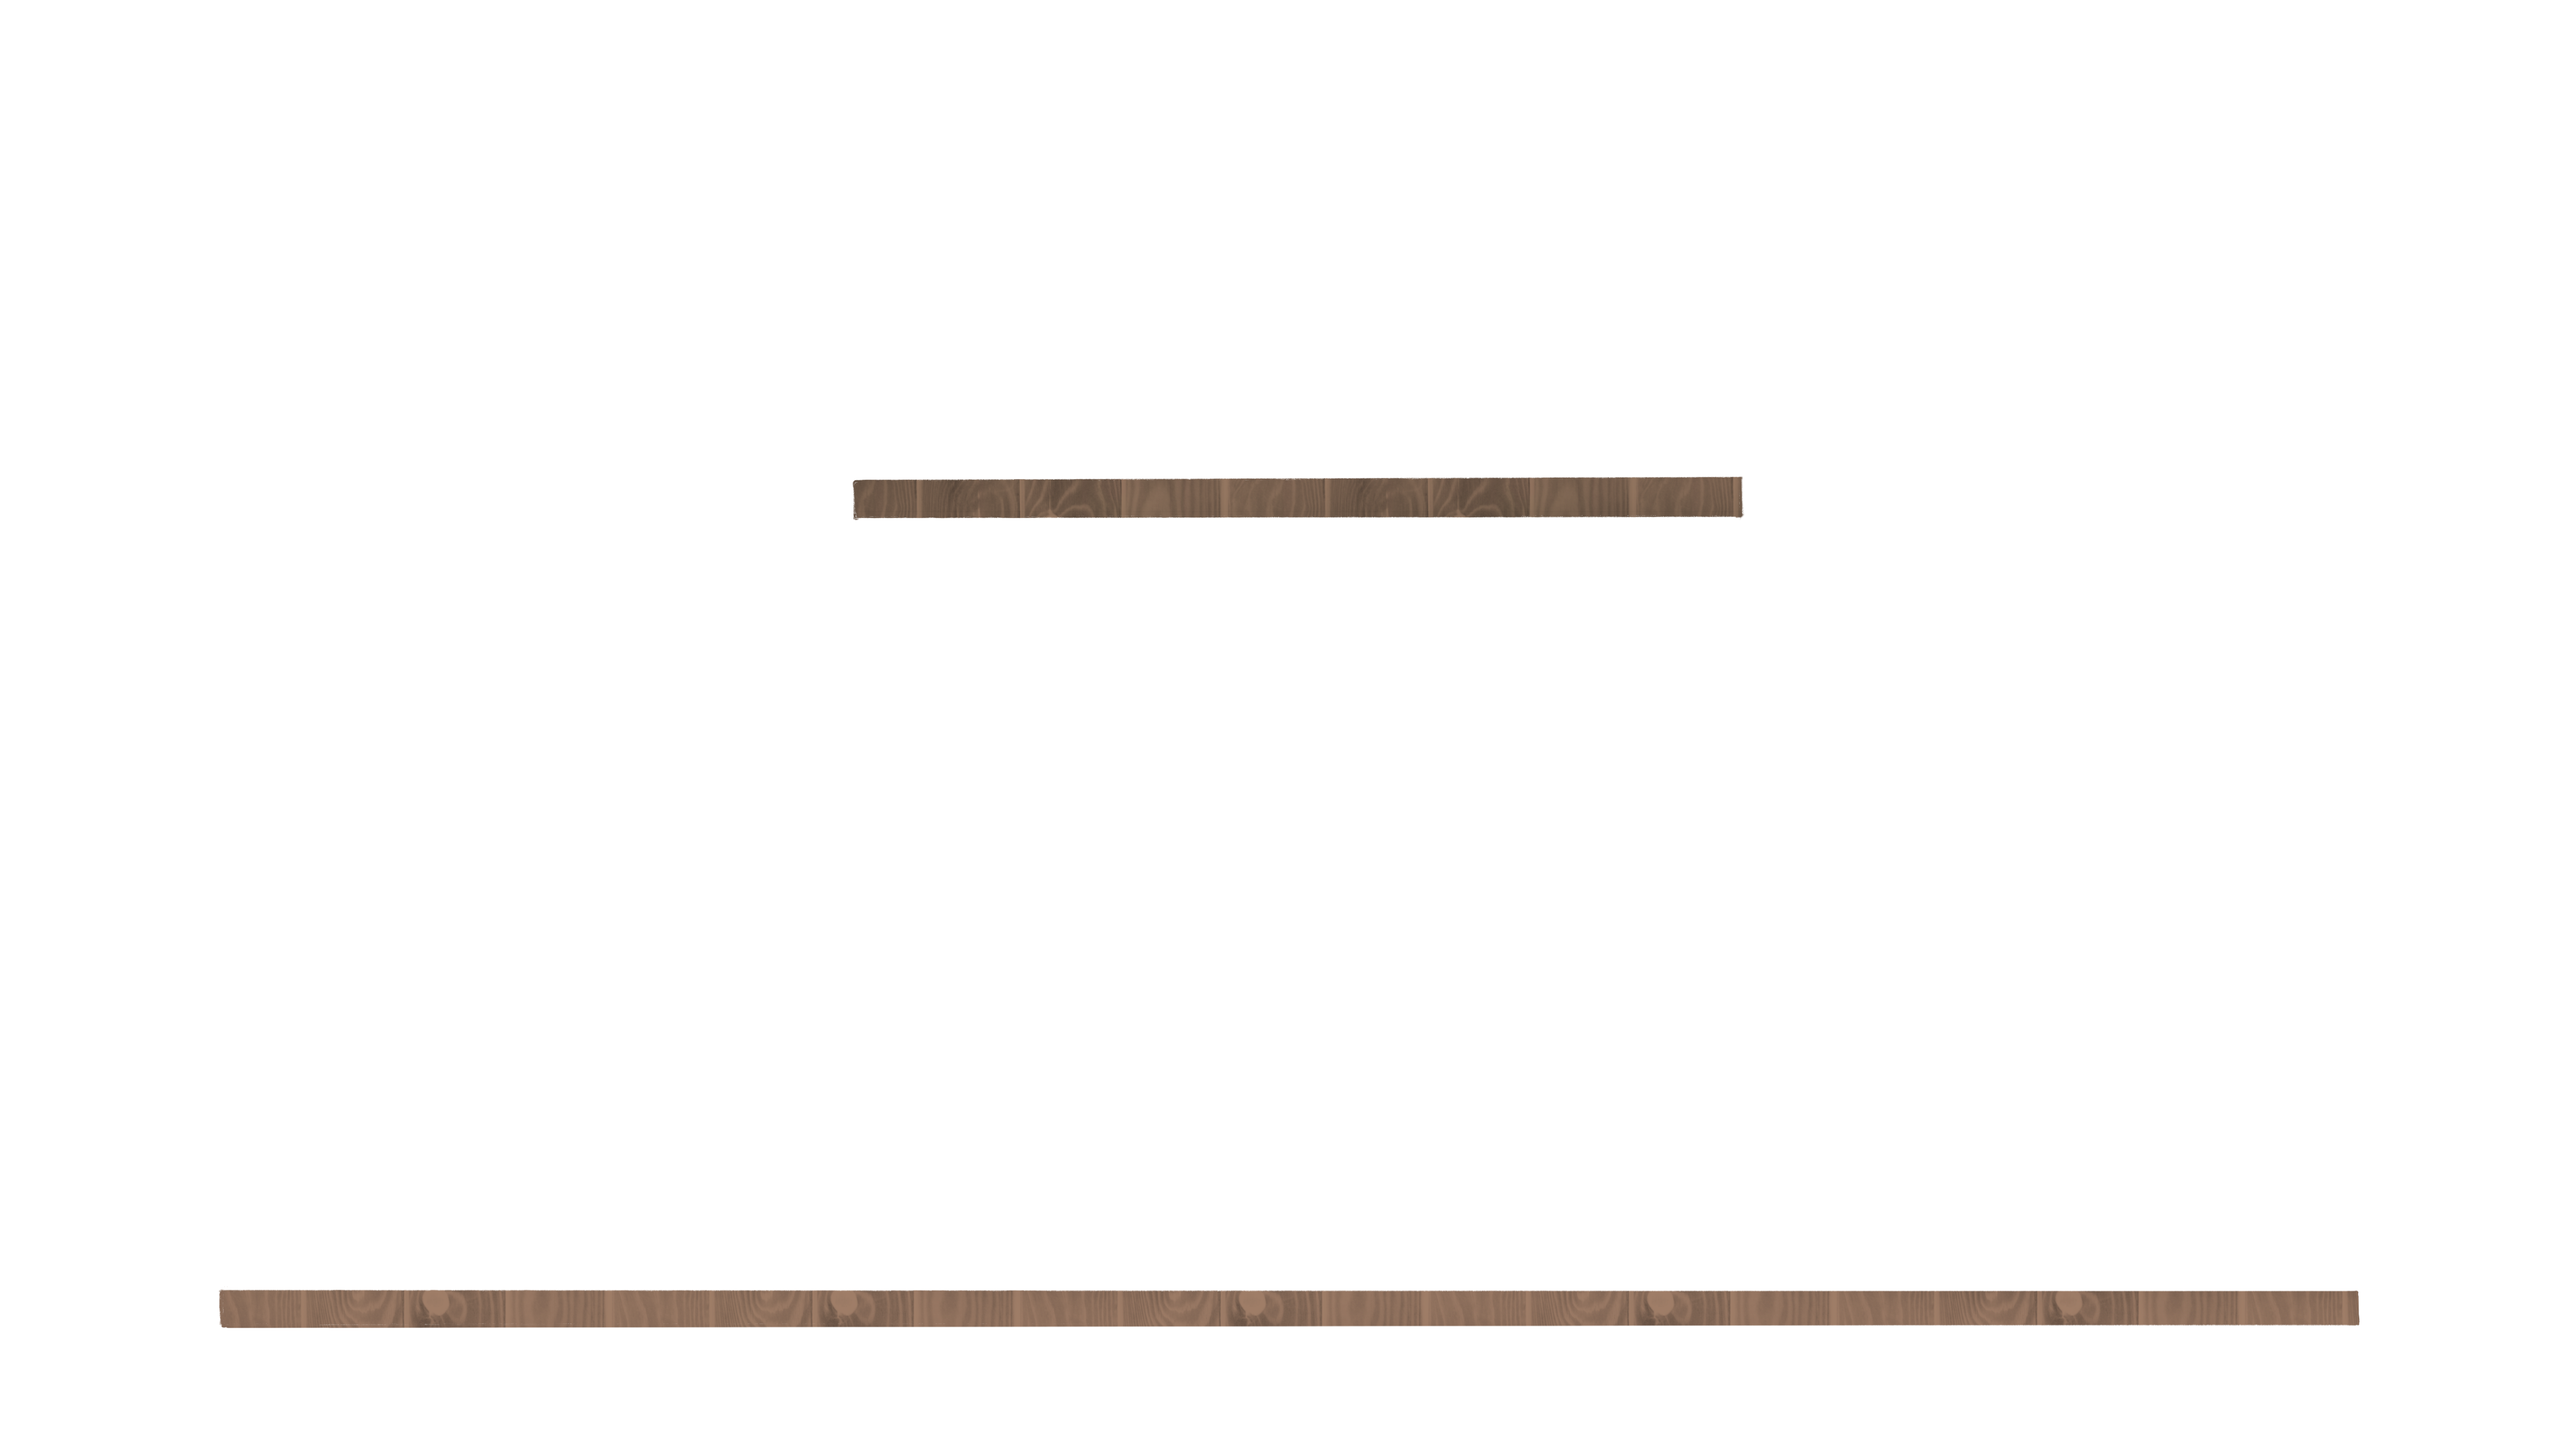
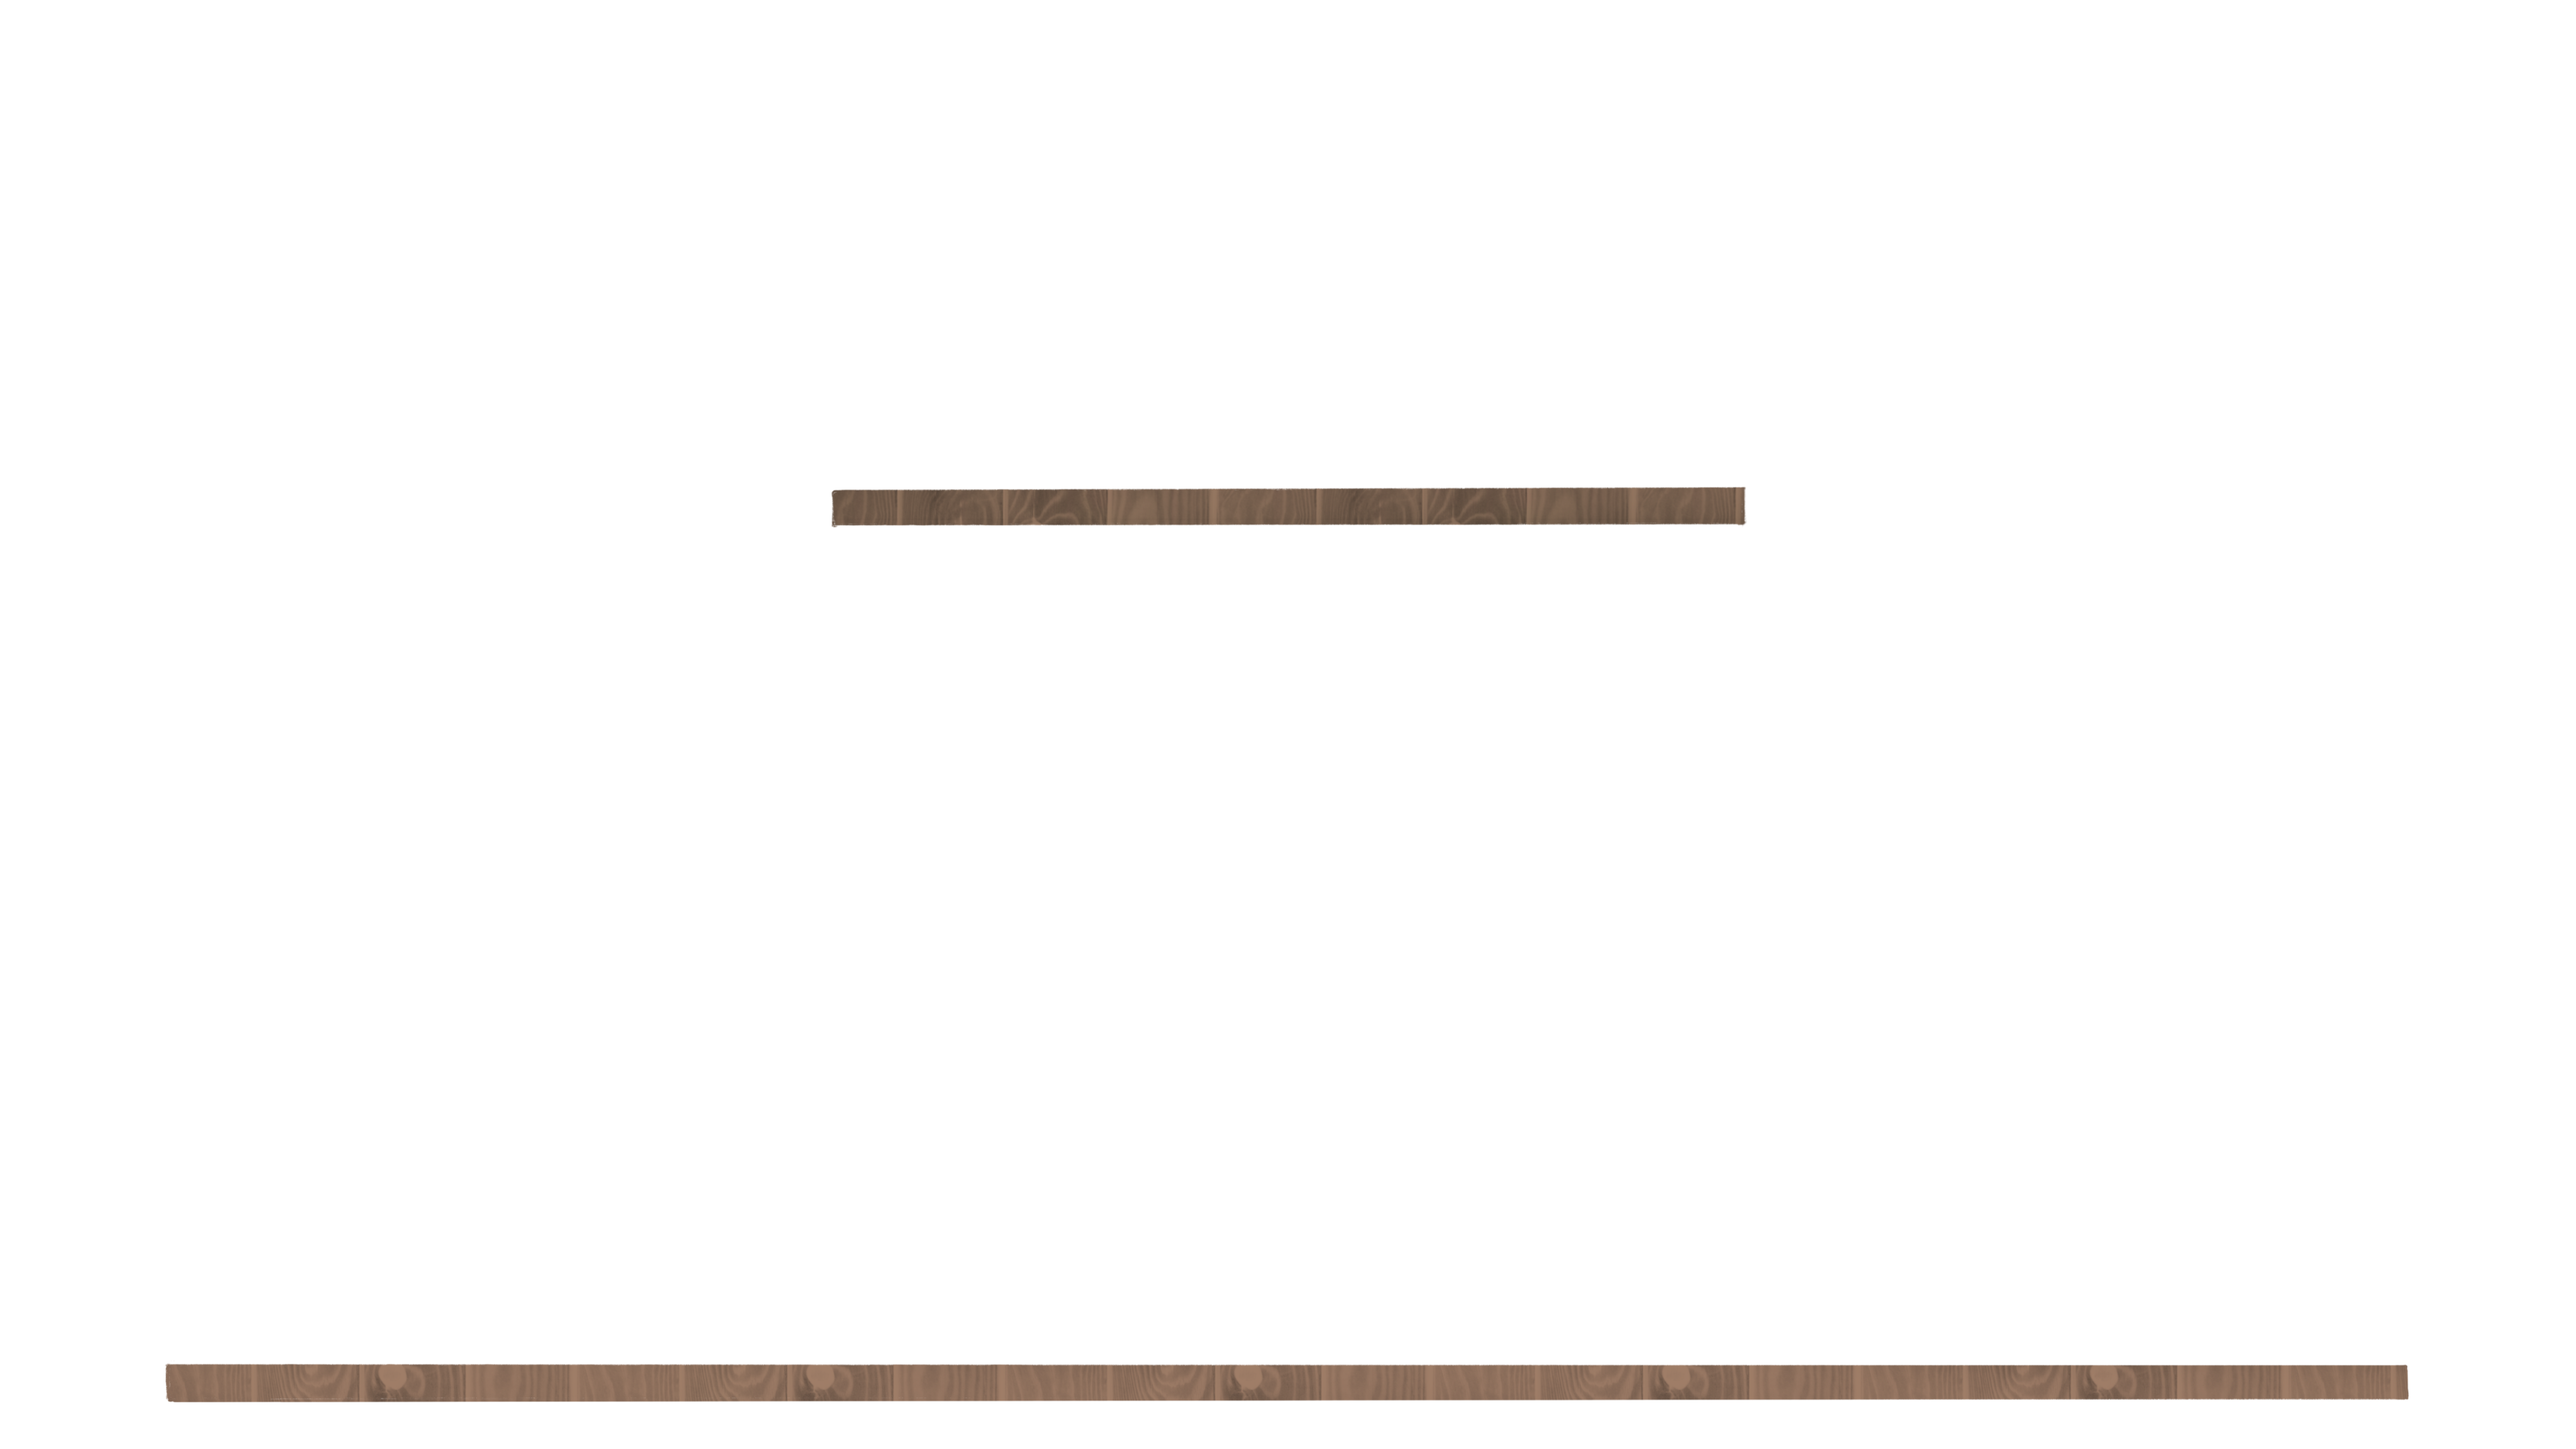
fixed upper trophy sizes

Changed region(s): [[0.0625, 0.8711, 0.9375, 0.9956], [0.3125, 0.3111, 0.6875, 0.3733]]

diff --git a/client/client/src/components/WallpaperComponent.tsx b/client/client/src/components/WallpaperComponent.tsx
@@ -80,7 +80,7 @@ class WallpaperComponent extends React.Component<WallpaperComponentProps & Wallp
             groupWall = [<div className="col-3 wallpaper-centerd" key={"group_tree"}>
                 {groupTree}
             </div>,
-            <div className="col-3 wallpaper-centerd" key={"group_trophy"}>
+            <div className="col-3 wallpaper-centerd trophy_top" key={"group_trophy"}>
                 {groupTrophy}
             </div>]
 
@@ -92,7 +92,7 @@ class WallpaperComponent extends React.Component<WallpaperComponentProps & Wallp
         return <div className="wallpaper-80">
             <div className="row full_width_height">
                 {groupWall}
-                <div className="col-3 wallpaper-centerd">
+                <div className="col-3 wallpaper-centerd trophy_top">
                     <TrophyComponent completionState={clownfiestaCompletionState} achievementCategory={clownfiesta} />
                 </div>
                 <div className="col-3 wallpaper-centerd">

diff --git a/client/client/src/style/wallpaper.css b/client/client/src/style/wallpaper.css
@@ -32,6 +32,11 @@
     padding-bottom: 40px;
 }
 
+.trophy_top {
+    width: 20%;
+    padding-top: 40px;
+}
+
 .trophy {
     height: 100%;
 }
